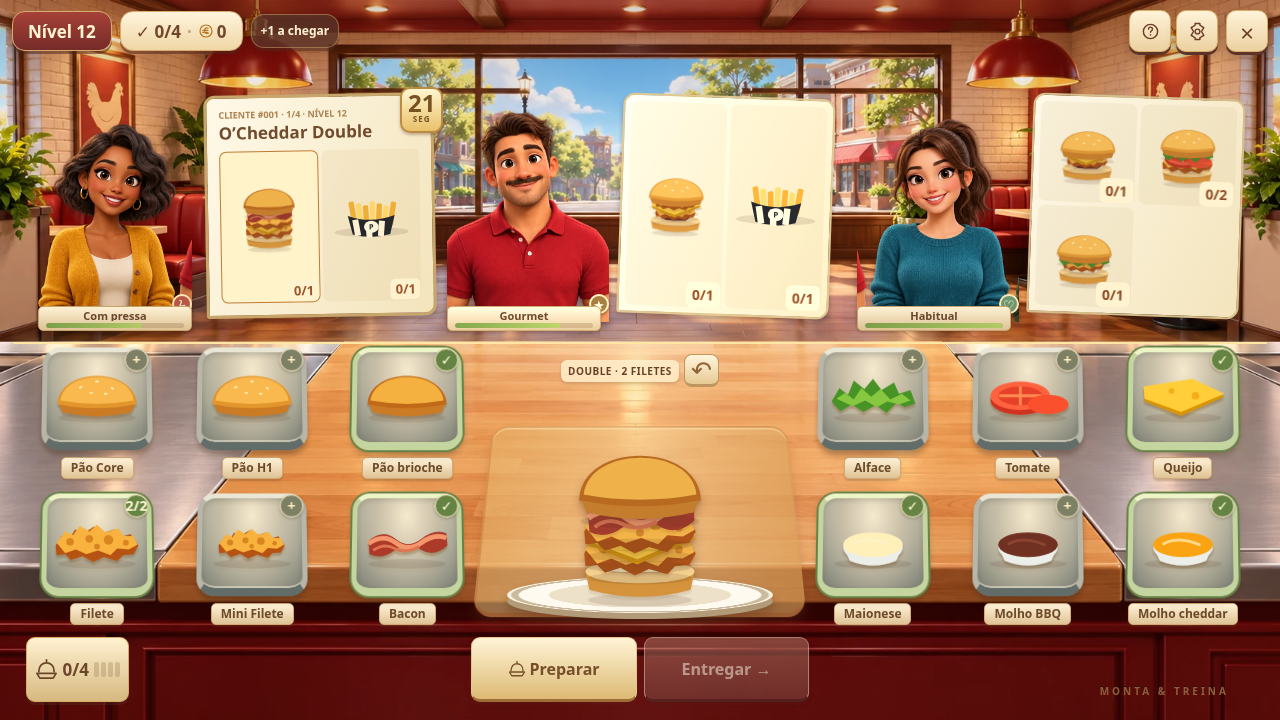
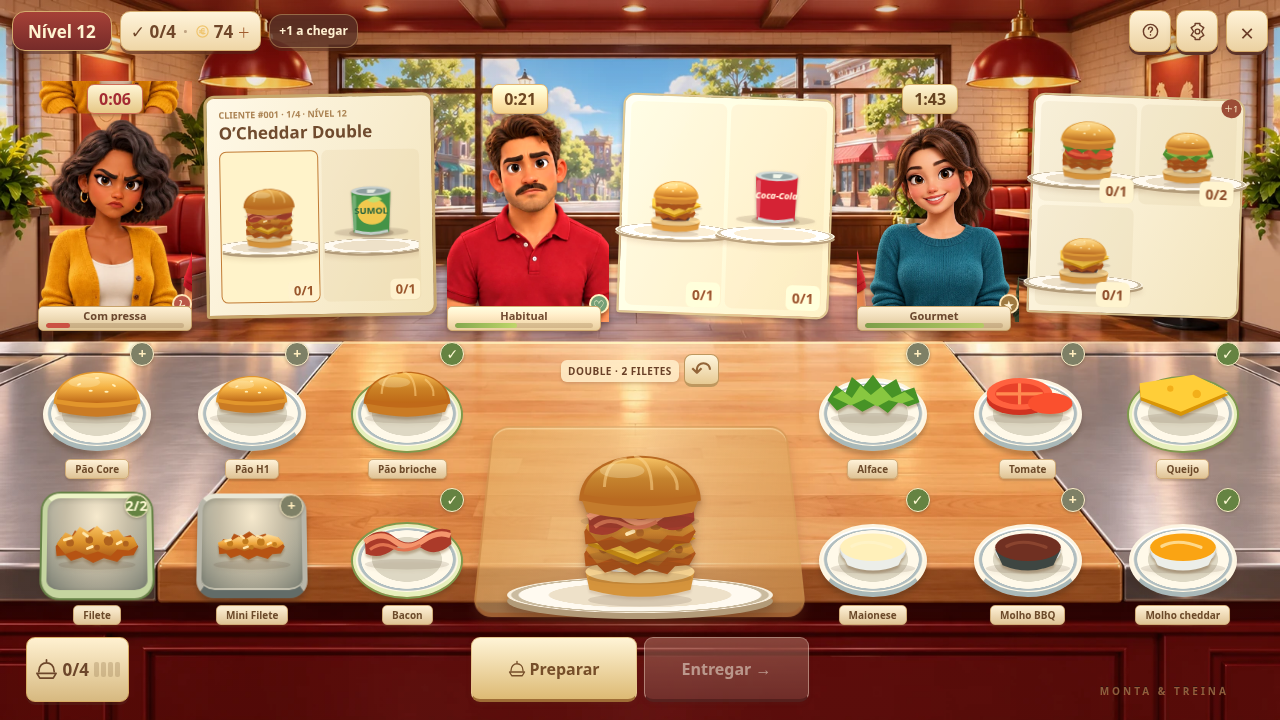
docs: apresentar progressão por ingredientes e validação da versão 1.10

diff --git a/README.md b/README.md
@@ -1,13 +1,13 @@
 # Monta & Treina
 
-Simulador de treino para Android, em português de Portugal. Cozinha visual com fila de clientes, talões, ingredientes na bancada e um sanduíche que ganha camadas a cada toque. Quatro receitas base com versões Double, batatas de três tamanhos, 12 níveis com pedidos e clientes aleatórios, treino livre, restaurante com melhorias, medalhas, revisão de erros e corrida aos recordes locais. Funciona offline no APK; não usa conta, servidor, análise de utilização ou serviços externos.
+Simulador de treino para Android, em português de Portugal. Cozinha visual com fila de clientes, relógios e reações individuais, talões e alimentos servidos em pratos, taças e bandejas. Uma instalação nova começa com pão H1 simples: as moedas compram ingredientes para chegar às quatro receitas completas, versões Double, batatas e bebidas. Inclui 12 níveis com pedidos e clientes aleatórios, treino livre, melhorias do restaurante, medalhas, revisão de erros e corrida aos recordes locais. Funciona offline no APK; não usa conta, servidor, análise de utilização ou serviços externos.
 
 ## Como jogar
 
 1. A aplicação abre diretamente em **Níveis**. A barra inferior tem apenas **Níveis** e **Treino**, que abre o treino livre quando desbloqueado.
 2. O mapa tem um caminho sinuoso com 12 fases, três cenários ilustrados e scroll vertical próprio: exterior do restaurante com esplanada e entregas, sala de refeições com balcões e menus, e cozinha com fogões e utensílios. As ilustrações são locais e o vapor respeita as definições de animação. Podes consultar fases bloqueadas; o botão de jogar só fica disponível após concluir a anterior. Ao abrir o mapa, o nível atual fica visível.
-3. Cada tentativa sorteia o número de clientes uma vez: 2–4 nos níveis 1–4, 3–6 nos níveis 5–8 e 4–8 nos níveis 9–12. Esse total mantém-se durante a tentativa. A receita e as quantidades são sorteadas por cliente, com batatas a partir do nível 5 e versões Double a partir do 9. Repetir uma fase faz novos sorteios.
-4. O **Treino livre** desbloqueia ao concluir o nível 1. As receitas Krunch Clássico, Krunch BBQ, Clássica e O’Cheddar desbloqueiam após os níveis 1, 2, 3 e 4, respetivamente. Batatas desbloqueiam após o nível 5 e Double após o 9. O treino só sorteia receitas já desbloqueadas. A ajuda permite consultar a receita do pedido atual durante uma fase, mesmo antes de a desbloquear para treino.
+3. Cada tentativa sorteia o número de clientes uma vez: 2–4 nos níveis 1–4, 3–6 nos níveis 5–8 e 4–8 nos níveis 9–12. Esse total mantém-se durante a tentativa. A receita e as quantidades são sorteadas por cliente, usando os ingredientes já comprados: bebidas a partir do nível 3, batatas a partir do 5 e versões Double a partir do 9. Repetir uma fase faz novos sorteios. As primeiras compras acrescentam pão com Mini Filete e pão com frango e maionese; quando há receitas completas disponíveis, as fases passam a usá-las.
+4. O **Treino livre** desbloqueia ao concluir o nível 1, com as receitas simples disponíveis. As receitas Krunch Clássico, Krunch BBQ, Clássica e O’Cheddar ficam disponíveis após os níveis 1, 2, 3 e 4, respetivamente, desde que os seus ingredientes tenham sido comprados. Batatas requerem o nível 5 e a estação de batatas; Double requer o nível 9. As receitas simples não têm versão Double. O treino só sorteia receitas já desbloqueadas. A ajuda permite consultar todas as receitas.
 5. No treino livre, configura receita, modo, pedido, batatas e tempo nos cartões ilustrados. Os painéis fecham no **X** superior; as alterações são aplicadas ao escolher.
 6. Toca nos ingredientes para montar e novamente para retirar. No Double, dois toques adicionam dois filetes; um terceiro limpa essas unidades. Usa **↶** para desfazer o último ingrediente. Se houver queijo, coloca-o entre os dois filetes.
 7. Nas batatas, escolhe a porção indicada no talão: pequena preta, média vermelha ou grande cinzenta. Nos pedidos com vários produtos, toca em **Adicionar à bandeja** para validar cada unidade. Nos níveis, usa **Preparar** e **Entregar**; podes entregar parte do pedido para libertar a bandeja e trocar de cliente. No treino livre, serve o pedido completo antes do prazo.
@@ -31,7 +31,7 @@ Apenas o mapa de níveis tem scroll. Treino, receitas, definições, cozinha e r
 
 ## Restaurante, clientes e recordes
 
-Nos níveis, a cozinha atende até **três clientes em simultâneo**. Toca num retrato para mudar de talão: os ingredientes deixados a meio e os produtos preparados ficam associados a esse cliente. Cada cliente tem a sua barra de paciência e o cronómetro do cliente selecionado aparece ao lado do talão. Dois clientes chegam no início; o terceiro pode chegar após oito segundos. A fila volta a preencher-se quando alguém sai.
+Nos níveis, a cozinha atende até **três clientes em simultâneo**. Toca num retrato para mudar de talão: os ingredientes deixados a meio e os produtos preparados ficam associados a esse cliente. **Todos os clientes presentes mostram o seu próprio relógio e barra de paciência**, incluindo os que não estão selecionados. As caras mudam de contente para impaciente com 60% do tempo restante, e para zangado com 25%. Dois clientes chegam no início; o terceiro pode chegar após oito segundos. A fila volta a preencher-se quando alguém sai.
 
 - **Habitual:** mais paciência.
 - **Com pressa:** menos tempo, pedidos menores e gorjetas maiores.
@@ -40,23 +40,36 @@ Nos níveis, a cozinha atende até **três clientes em simultâneo**. Toca num r
 
 A bandeja começa com **dois espaços partilhados** entre os clientes. **Preparar** valida uma unidade; **Entregar** leva os produtos prontos ao cliente selecionado e liberta esses espaços. Podes fazer entregas parciais. O talão soma o que já foi entregue ao que está pronto, e só fecha quando todas as quantidades estiverem completas. Ingredientes errados, filetes em falta e bandejas cheias não aumentam os contadores. Se a paciência acabar, o cliente sai e a fase fica por concluir; podes servir os restantes para continuar a ganhar moedas.
 
+Cada entrega parcial recupera **3 segundos por produto novo, até 6 segundos por entrega**, apenas para esse cliente, com indicação animada e uma reação contente. O limite acumulado é 20% do prazo inicial, arredondado ao segundo, com mínimo de 3 e máximo de 15 segundos por cliente. Repetir a ação sem novos produtos não dá tempo; pedidos completos ou expirados também não recebem o bónus.
+
+**Coca-Cola, Pepsi e Sumol** podem acompanhar as sandes ou constituir pedidos só de bebidas. Seleciona a bebida no talão e prepara a lata correta na bandeja; trocar de marca não valida o produto. As três marcas têm cores e desenhos próprios. O pão Core, o H1 e o brioche também têm formas diferentes, e o Filete distingue-se do Mini Filete. Pratos, taças e bandejas metálicas organizam os alimentos na bancada.
+
 Um cliente completo dá moedas: uma base, valor por produto, gorjeta conforme a rapidez e o tipo de cliente, e bónus de sequência até cinco clientes. A entrega parcial não dá moedas. O treino livre também dá moedas ao concluir um pedido correto. O prémio fica guardado logo ao servir; uma fase falhada não retira os prémios dos clientes que foram servidos.
 
-A **carteira no topo** abre o restaurante, com três abas e sem scroll:
+A **carteira no topo**, tanto no mapa como durante a partida, abre o restaurante com quatro abas e sem scroll. Durante a partida, a loja pausa todos os clientes:
 
+- **Ingredientes:** três compras ilustradas por página. Mini Filete custa 15 moedas, alface e maionese 10 cada; os restantes ingredientes têm o preço indicado. A estação de batatas custa 25 e cada marca de bebida custa 20. As compras são permanentes e só se pagam uma vez. Novos ingredientes e receitas entram nos serviços seguintes; os pedidos de uma partida já iniciada mantêm-se. Os novos jogos começam apenas com pão H1; a atualização preserva os ingredientes que já estavam disponíveis nas instalações anteriores. As bebidas novas precisam de ser compradas.
 - **Melhorias:** bandeja de 4 e depois 6 espaços (40/100 moedas); bancada com mais 8% e depois 16% de tempo por cliente (50/120 moedas). As melhorias aplicam-se às novas tentativas dos níveis. Uma corrida ao recorde mantém os tempos guardados no plano original.
 - **Decoração:** esplanada florida (30 moedas + 3 estrelas), sala renovada (70 + 6) e cozinha do chef (120 + 10). As compras acrescentam elementos visíveis ao mapa; a cozinha do chef também muda os acabamentos da bancada. As estrelas gastas são descontadas do saldo da loja, preservando a classificação de cada nível. Repetir uma fase não repõe estrelas já gastas.
-- **Álbum:** cada produto ganha medalhas **Aprendiz**, **Especialista** e **Mestre** após 1, 10 e 30 unidades corretas. Inclui sandes simples, Double e batatas. Conta a produção validada, mesmo se o cliente não chegar a receber o pedido completo. O álbum tem páginas e uma celebração aparece ao ganhar uma medalha.
+- **Álbum:** cada produto ganha medalhas **Aprendiz**, **Especialista** e **Mestre** após 1, 10 e 30 unidades corretas. Inclui as receitas iniciais, sandes completas, Double, batatas e bebidas. Conta a produção validada, mesmo se o cliente não chegar a receber o pedido completo. O álbum tem páginas e uma celebração aparece ao ganhar uma medalha.
 
-Ao concluir uma fase, é guardado o melhor tempo com **os pedidos exatos, as personalidades, os prazos e os instantes das entregas**. O botão com o fantasma no cartão desse nível inicia uma corrida aos mesmos pedidos. A barra compara clientes servidos por ti e pelo recorde ao longo do tempo. Uma tentativa mais lenta ou falhada não substitui o recorde. A ajuda e as definições pausam todos os clientes e a comparação.
+Ao concluir uma fase, é guardado o melhor tempo com **os pedidos exatos, as personalidades, os prazos e os instantes das entregas**. O botão com o fantasma no cartão desse nível inicia uma corrida aos mesmos pedidos. A barra compara clientes servidos por ti e pelo recorde ao longo do tempo. Uma tentativa mais lenta ou falhada não substitui o recorde. A ajuda, as definições e a loja pausam todos os clientes e a comparação.
 
 Na horizontal, a partida ocupa toda a largura e altura disponíveis. A sala, os clientes e a bancada formam uma cena contínua em perspetiva. Os ingredientes ficam em recipientes dos dois lados; o sanduíche é montado no centro. Os talões surgem junto de cada cliente, com miniaturas dos produtos e quantidades; o talão selecionado permite escolher e paginar produtos. Ajuda, definições e saída ficam em botões compactos sobre o cenário, sem uma faixa de cabeçalho separada. O treino livre usa a mesma bancada.
 
-O cenário e os quatro personagens são arte gerada para a aplicação, otimizada para WebP e incluída no APK. A primeira partida aguarda o carregamento e a descodificação das imagens antes de iniciar o relógio. Os clientes têm animação de entrada e movimento subtil em espera; as preferências de animação continuam a ser respeitadas.
+O cenário e os quatro personagens, incluindo as expressões de impaciência e irritação, são arte gerada para a aplicação, otimizada para WebP e incluída no APK. A primeira partida aguarda o carregamento e a descodificação das três imagens antes de iniciar o relógio. Os clientes têm animação de entrada e movimento subtil em espera; as preferências de animação continuam a ser respeitadas.
 
 ![Serviço com fila na horizontal](docs/servico-horizontal.png)
 
 ![Cozinha num ecrã grande](docs/servico-tablet.png)
+
+![Bebidas em bandejas e relógios de todos os clientes](docs/bebidas.png)
+
+![Entrega parcial com recuperação de paciência](docs/entrega-parcial.png)
+
+![Primeiro serviço só com pão H1](docs/primeiro-servico.png)
+
+![Compras de ingredientes com moedas](docs/ingredientes.png)
 
 ![Treino livre na horizontal](docs/treino-horizontal.png)
 
@@ -83,7 +96,7 @@ O talão apresenta **preparados/quantidade pedida** por produto e o total do ped
 
 O tempo escolhido é **por sanduíche**: 3 × 60 segundos dá 180 segundos para o cliente inteiro. Cada porção de batatas acrescenta 40% desse tempo, com mínimo de 10 segundos. Um menu de uma sandes e uma porção, com 60s por sandes, tem 84s. As batatas individuais usam o mesmo tempo por porção. O relógio continua entre montagens. A ajuda pausa o tempo como antes. Se o prazo terminar, a revisão mantém a contagem parcial de cada produto.
 
-Em **Ajuda → Contadores**, podes consultar os totais guardados no dispositivo. **Sanduíches preparados** conta montagens validadas; **Pedidos concluídos** conta clientes servidos corretamente dentro do prazo. **Porções de batatas** conta as porções validadas, separadamente das sandes. Contadores antigos são preservados ao atualizar. Sanduíches de pedidos que ficaram incompletos continuam no contador de produção. O resumo do turno distingue pedidos e sanduíches. Um novo turno reinicia apenas os valores do turno. Os recordes de combos usam chaves separadas das receitas individuais.
+Em **Ajuda → Contadores**, podes consultar os totais guardados no dispositivo. **Sanduíches preparados** conta montagens validadas; **Pedidos concluídos** conta clientes servidos corretamente dentro do prazo. **Porções de batatas** e **Bebidas preparadas** têm contagens separadas das sandes. Contadores antigos são preservados ao atualizar. Sanduíches de pedidos que ficaram incompletos continuam no contador de produção. O resumo do turno distingue pedidos e sanduíches. Um novo turno reinicia apenas os valores do turno. Os recordes de combos usam chaves separadas das receitas individuais.
 
 ![Pedido combinado com quantidades e progresso](docs/pedido-combinado.png)
 
@@ -103,15 +116,15 @@ Antes de cada fase ou ronda de treino, uma transição animada prepara a bancada
 
 - **Ajuda:** disponível no botão de interrogação no topo. Tem abas **Como jogar**, **Receitas**, **Contadores** e **Sobre**. O guia avança passo a passo e as receitas usam ingredientes ilustrados. O relógio fica em pausa enquanto o painel está aberto e retoma ao fechá-lo.
 - **Definições:** abas **Áudio** e **Movimento**, com som geral, efeitos, música de fundo tranquila (melodia original a 72 BPM), volume, animações e preferência de cozinha horizontal guardados no dispositivo. Por defeito, os efeitos estão ativos, o volume fica a 60% e a música está desligada. A preferência de movimento reduzido do sistema é respeitada.
-- **Sons offline:** efeitos originais sintetizados no dispositivo para pão, frango, vegetais, queijo, bacon, molhos e batatas; entrada do pedido, entrega, sucesso, erro e aviso nos últimos cinco segundos. Não há ficheiros de áudio remotos. “Testar som” permite verificar o volume.
+- **Sons offline:** efeitos originais sintetizados no dispositivo para pão, frango, vegetais, queijo, bacon, molhos, batatas e bebidas; entrada do pedido, entrega, sucesso, erro e aviso nos últimos cinco segundos. Não há ficheiros de áudio remotos. “Testar som” permite verificar o volume.
 - **Animações:** ingredientes voam entre os recipientes e a bandeja, assentam no sanduíche e a bandeja sai ao servir. As ações ficam bloqueadas durante a entrega para evitar duplicação. Os resultados apresentam estrelas e celebram um pedido perfeito com confettis.
-- **Segundo plano:** a música e os efeitos param quando a aplicação deixa de estar visível. O cronómetro continua; a pausa é exclusiva do painel de ajuda e definições. O áudio é iniciado após um toque do utilizador.
+- **Segundo plano:** a música e os efeitos param quando a aplicação deixa de estar visível. O cronómetro continua; ajuda, definições e loja pausam os relógios enquanto estão abertas. O áudio é iniciado após um toque do utilizador.
 
 ![Definições de áudio e movimento](docs/definicoes.png)
 
 ## Instalar no telemóvel
 
-[Descarregar o APK de teste para Android](https://github.com/Adjelson/KFC/raw/refs/heads/main/downloads/monta-treino-debug.apk) · Android 7.0 ou superior · versão 1.9 · cerca de 4,8 MB.
+[Descarregar o APK de teste para Android](https://github.com/Adjelson/KFC/raw/refs/heads/main/downloads/monta-treino-debug.apk) · Android 7.0 ou superior · versão 1.10 · cerca de 5,1 MB.
 
 Abre o ficheiro no Android e permite a instalação desta origem, se solicitado. A assinatura do APK foi verificada; ainda não foi feita validação num telemóvel real.
 
@@ -150,6 +163,8 @@ Ingredientes baseados nas referências e correções fornecidas pelo utilizador:
 - O’Cheddar: pão brioche, 1 Filete, queijo, bacon, molho cheddar, maionese.
 - Clássica: pão Core, 1 Filete, tomate, alface, maionese.
 
+Para iniciar a progressão, existem também pão H1 simples, pão H1 com Mini Filete e pão H1 com Mini Filete e maionese. São exercícios introdutórios do simulador. As bebidas são representações ilustradas de latas de Coca-Cola, Pepsi e Sumol; não há preparação de bebidas com dispensador.
+
 O jogo avalia os ingredientes e as quantidades de filetes. Nas versões Double, usa duas unidades da proteína da receita (Filete ou Mini Filete), com queijo entre elas quando incluído, conforme a indicação do utilizador. A disposição dos restantes ingredientes é ilustrativa; gramagens e número de fatias de bacon não são avaliados. As porções de batatas são regras do simulador, sem gramagens oficiais. As receitas da ajuda usam um seletor ilustrado com setas, sem listas nativas do sistema. Os limites de tempo são regras do jogo, não padrões oficiais de preparação. Os ícones são ilustrativos. Aplicação independente, sem afiliação à KFC.
 
-A contagem continua se a aplicação ficar em segundo plano; a ronda termina ao voltar se o prazo tiver passado. A ajuda e as definições pausam o relógio enquanto estão abertas. Só rondas concluídas corretamente antes do prazo contam para o recorde. Os recordes são locais e podem desaparecer ao limpar os dados ou desinstalar a aplicação.
+A contagem continua se a aplicação ficar em segundo plano; a ronda termina ao voltar se o prazo tiver passado. A ajuda, as definições e a loja pausam os relógios enquanto estão abertas. Só rondas concluídas corretamente antes do prazo contam para o recorde. Os recordes são locais e podem desaparecer ao limpar os dados ou desinstalar a aplicação.

diff --git a/docs/validacao-1.10.md b/docs/validacao-1.10.md
@@ -1,0 +1,19 @@
+# Validação da versão 1.10
+
+- `npm test`: 35 testes passaram.
+- `npm run test:e2e -- --workers=3`: 56 testes passaram no Chromium.
+- `npm run build`: distribuição web concluída, com cenário, personagens e atlas de emoções em WebP.
+- `npm run android:apk`: compilação Android concluída; pacote `pt.treinomontagem.app`, versão 1.10, código 12.
[1 lines of base64/hex data omitted]
+- Os seis ficheiros de `dist` coincidem byte a byte com os recursos incluídos no APK.
+- Tamanho do APK: 5 083 265 bytes.
+
+Os novos testes verificam que uma instalação nova começa só com pão H1, que as moedas compram ingredientes uma única vez, que o inventário persiste e que as fases só sorteiam produtos preparáveis. A migração preserva os ingredientes anteriormente disponíveis nas instalações com progresso. Bebidas novas requerem compra. As receitas completas são preferidas na campanha assim que os ingredientes permitem prepará-las.
+
+Os testes de interface cobrem relógios e expressões dos três clientes ao mesmo tempo, mudança de cliente sem perder a montagem, recuperação limitada de paciência após entregas parciais, pausa de todos os clientes durante as compras e retoma ao fechar a loja. Também verificam compras das três marcas, bebidas a partir do nível 3, rejeição da marca errada e contadores separados de bebidas e sandes. A lógica impede recuperar tempo com entregas repetidas, depois de expirar ou após concluir o pedido.
+
+O catálogo tem três ingredientes por página, sem scroll, em 320 × 568 e 740 × 360. Foram verificados menus com seis produtos diferentes, navegação entre produtos e as páginas da loja nesses formatos. A restante bateria cobre treino livre, níveis, receitas, Double, batatas, moedas, melhorias, recordes, medalhas, animações e movimento reduzido.
+
+As capturas desta versão foram produzidas a partir da distribuição compilada. `primeiro-servico.png` mostra o início com pão H1; `ingredientes.png` usa 34 moedas de demonstração para mostrar as compras. As capturas de clientes e bebidas usam progresso, ingredientes e moedas de demonstração, com diferentes prazos para apresentar as três expressões. A entrega parcial de uma bebida mostra a recuperação de três segundos.
+
+O APK foi compilado e a assinatura verificada. A instalação, a rotação, os gestos das barras do Android e o desempenho gráfico ainda precisam de validação num dispositivo Android real. O comportamento nativo mantém-se nesta versão; o novo atlas de emoções está incluído no carregamento inicial antes de iniciar os relógios.
